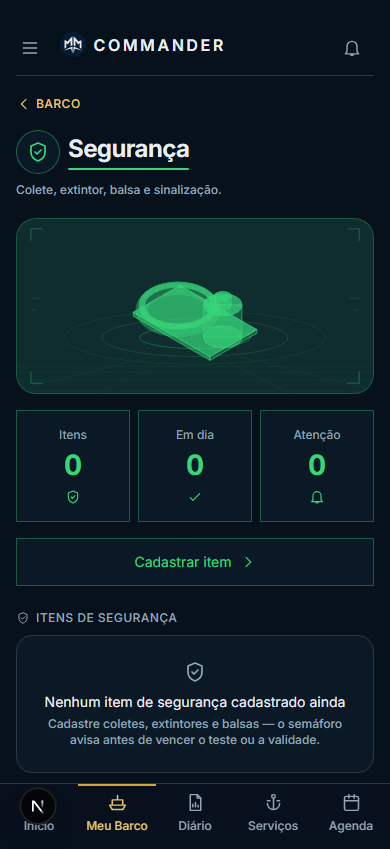
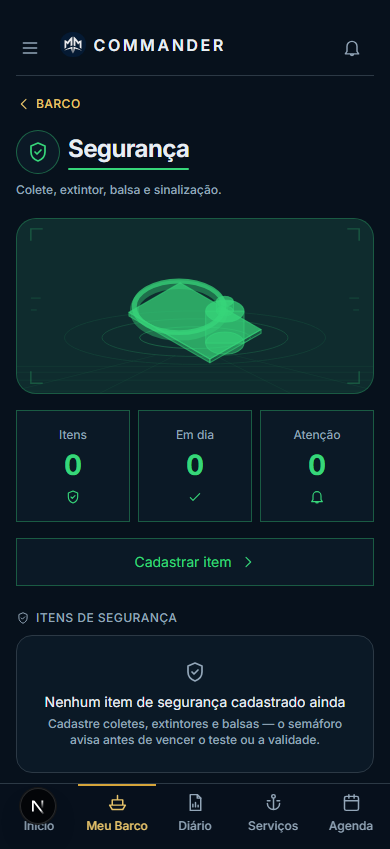
fix(onda 113): a boia de Segurança volta a ter furo
Último defeito de cena dos oito objetos, e o dono já tinha apontado: o desenho
de Segurança lia como uma bolha verde.

A CAUSA É ARITMÉTICA, não gosto. A boia era uma elipse de raio 17 com traço 10:
sobra um furo de 7 no eixo curto e, a 96px de altura na tela, isso FECHA. Anel
sem furo não é anel. Com raio 21 e traço 7 o furo tem 14, e a silhueta volta.

E o extintor saiu de x=26 para x=32. Com a boia maior, 26 punha o cilindro em
cima do traço direito dela — e em isometria "mais x" é mais à direita E mais à
frente, então ele também passa a ficar claramente na frente, sem depender de
sorte na ordem de pintura.

2081 testes (123 arquivos), tsc limpo, lint zerado, build verde.

Changed region(s): [[0.3385, 0.3062, 0.6769, 0.4287]]

diff --git a/web/components/ui/objeto-hub.tsx b/web/components/ui/objeto-hub.tsx
@@ -216,22 +216,34 @@ function Hidraulica() {
  * base e encavalada no extintor — que foi o que o dono viu.
  */
 function Seguranca() {
-  const rBoia = 17
-  const [ax, ay] = p(-16, 0, 4)
+  /**
+   * O FURO DA BOIA PRECISA SER MAIOR QUE O TRAÇO, SENÃO NÃO É BOIA.
+   * A primeira versão usava raio 17 com traço 10: sobrava um furo de 7 no eixo
+   * curto e, a 96px de altura, isso fecha — o desenho lia como uma bolha verde,
+   * que foi o que o dono viu. Com raio 21 e traço 7 o furo tem 14, e a silhueta
+   * volta a ser um anel.
+   */
+  const rBoia = 21
+  const traco = 7
+  const [ax, ay] = p(-15, 0, 4)
   const rx = rBoia * 2 * C
   return (
     <>
-      <Caixa x={-36} y={-22} z={0} dx={72} dy={44} dz={3} />
+      <Caixa x={-38} y={-24} z={0} dx={76} dy={48} dz={3} />
       <ellipse
         cx={ax} cy={ay} rx={rx} ry={rBoia}
-        fill="none" stroke="currentColor" strokeOpacity={LUZ.direita + 0.14} strokeWidth={10}
+        fill="none" stroke="currentColor" strokeOpacity={LUZ.direita + 0.14} strokeWidth={traco}
       />
       <ellipse
-        cx={ax} cy={ay - 3.5} rx={rx} ry={rBoia}
-        fill="none" stroke="currentColor" strokeOpacity={LUZ.topo} strokeWidth={5}
+        cx={ax} cy={ay - 3} rx={rx} ry={rBoia}
+        fill="none" stroke="currentColor" strokeOpacity={LUZ.topo} strokeWidth={traco - 3}
       />
-      <Cilindro cx={26} cy={0} z={3} r={9} h={26} />
-      <Cilindro cx={26} cy={0} z={29} r={4} h={7} />
+      {/* O extintor sai de x=26 para x=32: com a boia maior, 26 punha o
+          cilindro em cima do traço direito dela. Em isometria "mais x" é mais à
+          direita E mais à frente, então ele também passa a ficar claramente na
+          frente, sem depender de sorte na ordem de pintura. */}
+      <Cilindro cx={32} cy={4} z={3} r={9} h={26} />
+      <Cilindro cx={32} cy={4} z={29} r={4} h={8} />
     </>
   )
 }
